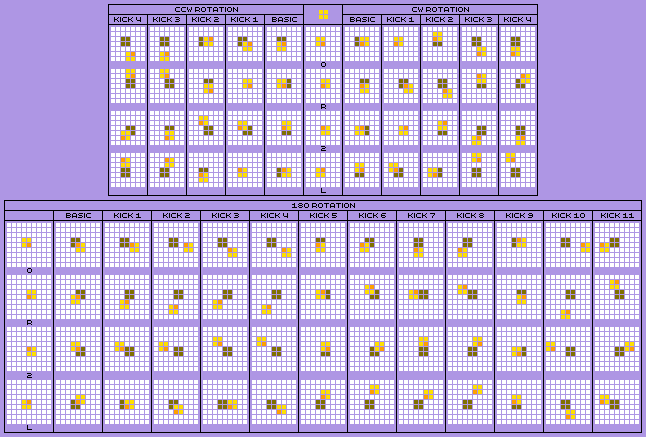
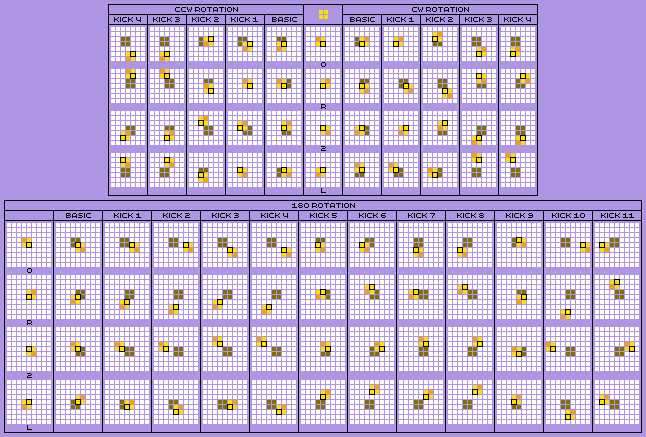
Combined the Nuketris offset tables into one image

diff --git a/index.html b/index.html
@@ -1457,21 +1457,13 @@
                     </p>
 
                     <p>
-                        Below is an illustration of the O-piece offset table for Nuketris, with the rotation centre highlighted.
-                        <strong>Please note that the rotation centre is <em>not</em> the block highlighted in Worm mode!</strong>
+                        Below is an illustration of the O-piece offset table for Nuketris. The block outlined in black is the rotation
+                        centre, while the block highlighted in orange, diagonally opposite the rotation centre, shows how the rotation
+                        state is displayed in Worm mode.
                     </p>
 
                     <div class="centre">
                         <img src="img/nuketris_opiece_offset.png" alt="Nuketris O-Piece Offset Table" />
-                    </div>
-
-                    <p>
-                        In Worm mode, the block diagonally opposite of the rotation centre is highlighted. Below is a modified version
-                        of the above illustration, which shows how the rotation states are displayed in Worm mode.
-                    </p>
-
-                    <div class="centre">
-                        <img src="img/nuketris_opiece_offset_worm.png" alt="Nuketris O-Piece Offset Table (Worm Mode)" />
                     </div>
 
                     <p>
